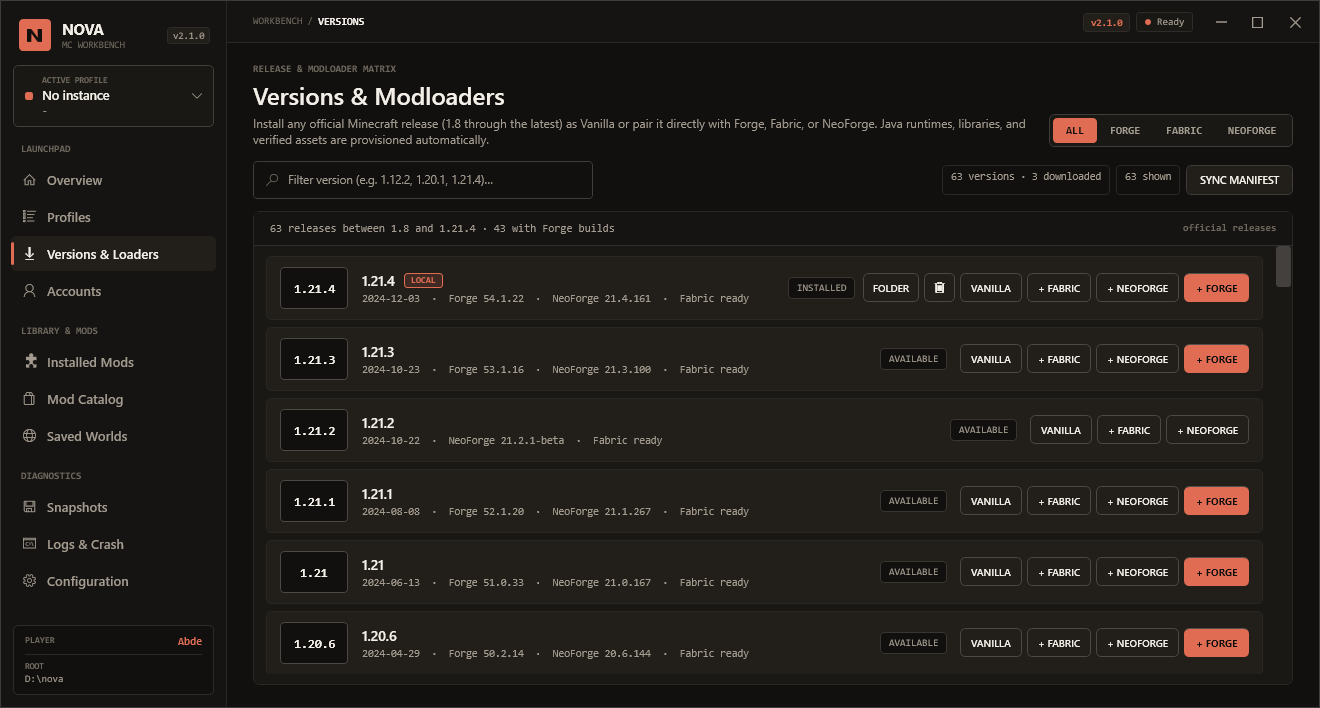
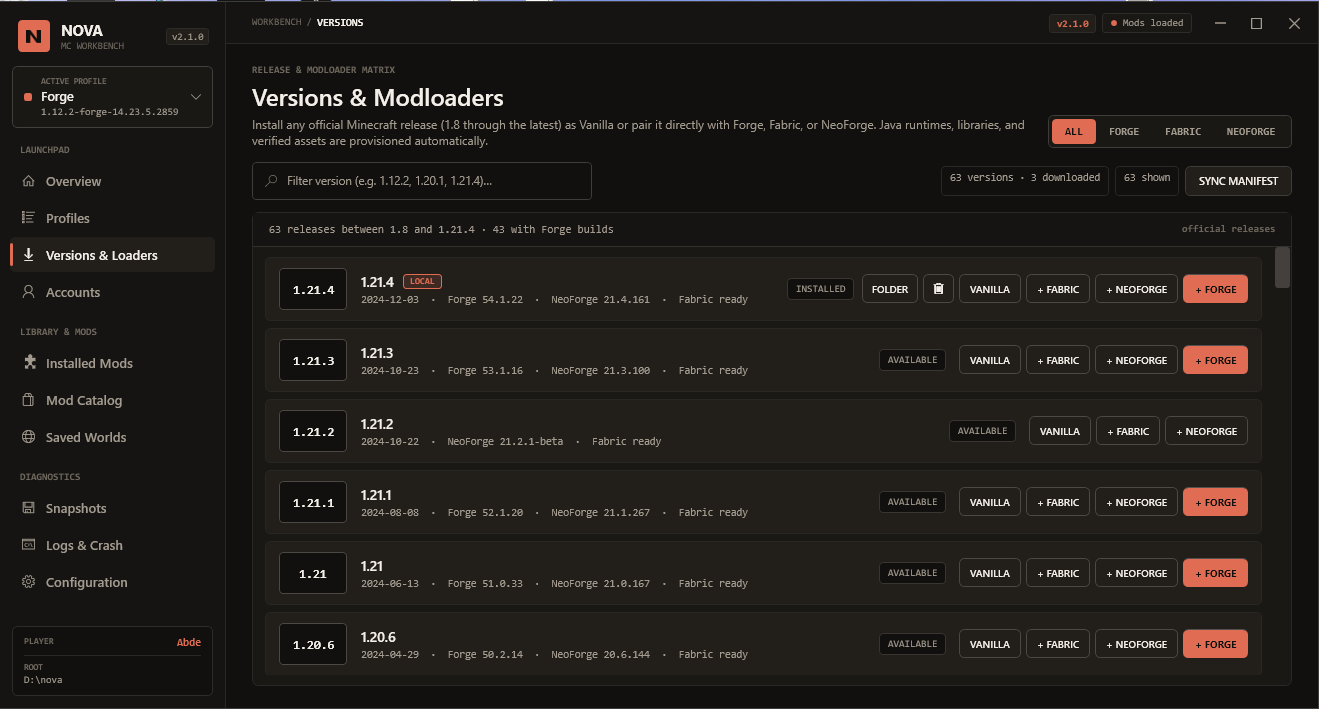
docs: replace screenshots with clean full-resolution Workbench captures

diff --git a/README.md b/README.md
@@ -63,7 +63,7 @@ Choose whichever package suits you best — **no external `.NET` or Java install
 - **Integrated Modrinth & CurseForge Store:** Search, filter, and install mods with automatic **required dependency resolution** across Forge, Fabric, and NeoForge.
 
 <p align="center">
-  <img src="docs/screenshots/mods.png" alt="Nova Workbench — Installed Mods & Updater" width="96%" />
+  <img src="docs/screenshots/store.png" alt="Nova Workbench — Mod Catalog &amp; Store" width="96%" />
 </p>
 
 ---
